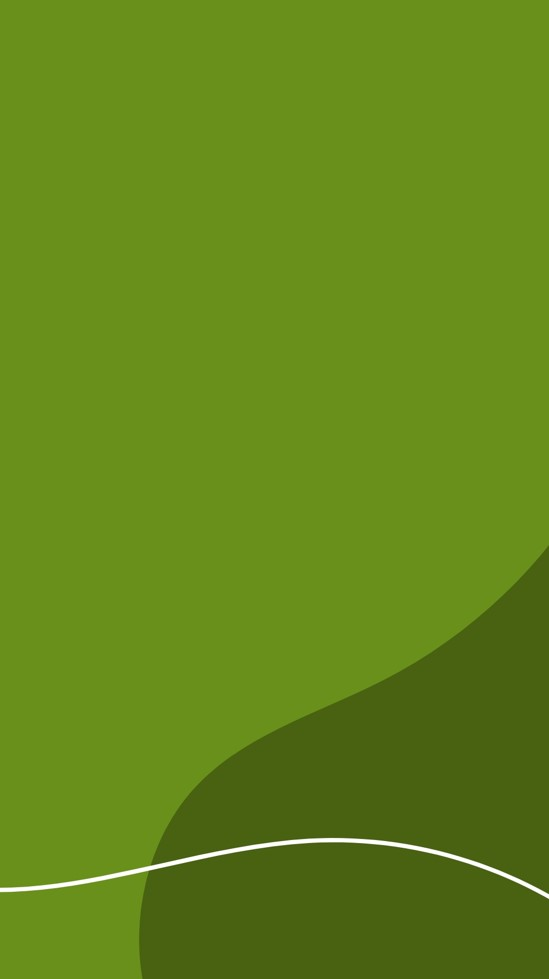
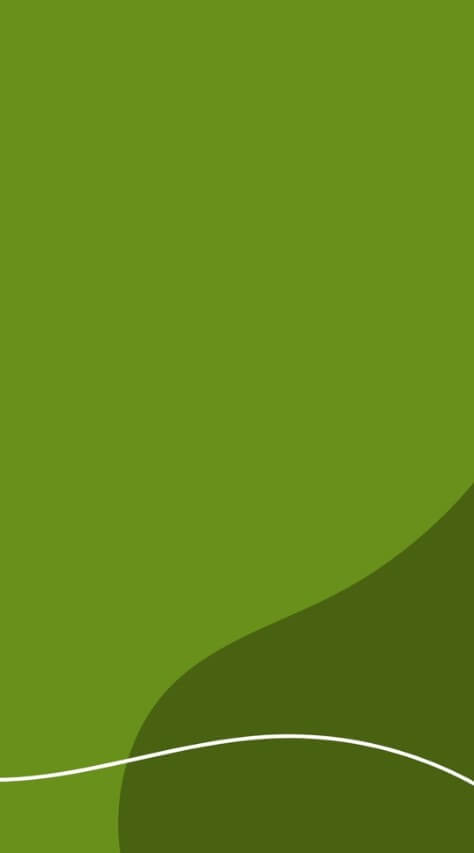
Compress jpg images

diff --git a/pages/index.tsx b/pages/index.tsx
@@ -1,6 +1,5 @@
 import React, { Suspense, lazy } from 'react';
 import { GetStaticProps, NextPage } from 'next';
-import dynamic from 'next/dynamic';
 
 import { MainLayout } from '../components/layouts';
 import { ProductSlides } from '../components/products';

diff --git a/styles/Landing.module.css b/styles/Landing.module.css
@@ -2,11 +2,6 @@
    width: 100vw;
 }
 
-/* .viandascookpapa {
-   width: 100%;
-   height: 100rem;
-} */
-
 .landing > .btn {
    width: 60%;
    max-width: 280px;
